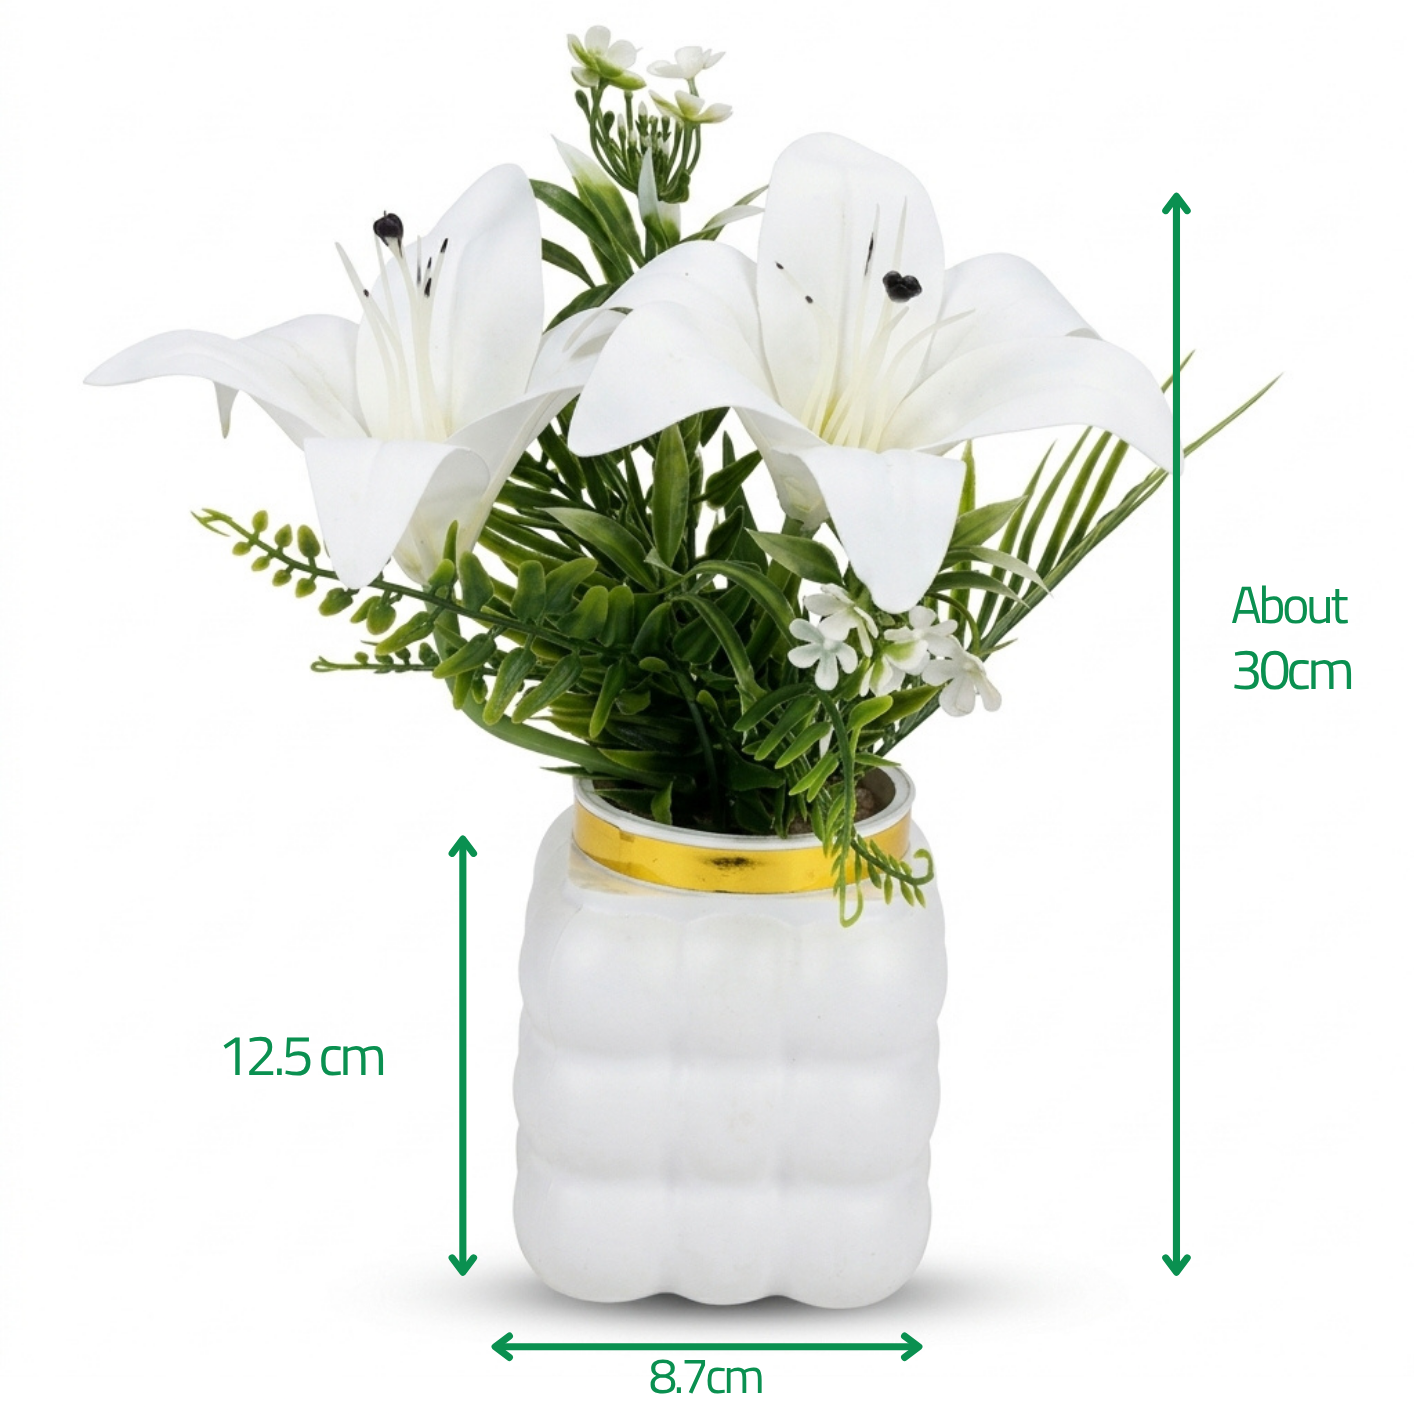
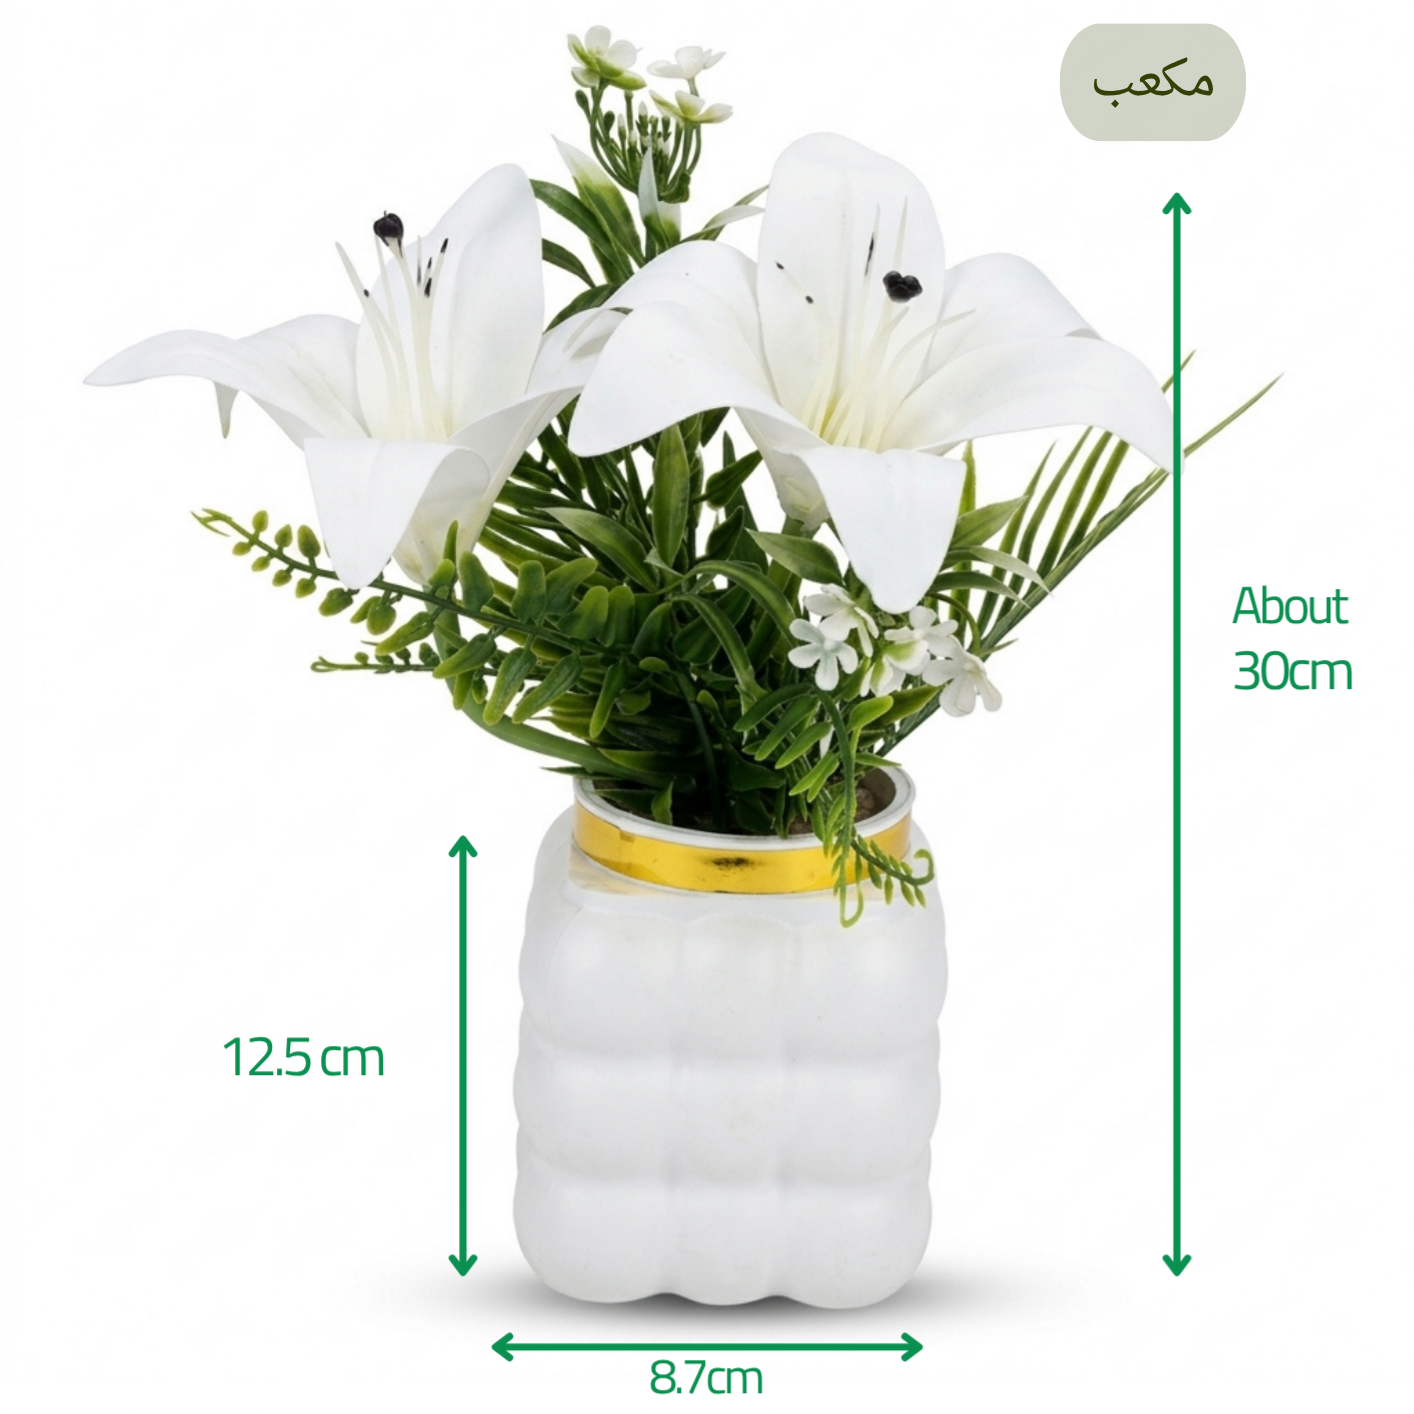
docs(amazon): calibrate live PPC campaign parameters and log daily progress

diff --git a/PROGRESS_TRACKER.md b/PROGRESS_TRACKER.md
@@ -679,6 +679,21 @@ Vercel Preview
 
 ---
 
+### 🗓 اليوم: الاثنين 2026-11-16 (معايرة وتشغيل إعلانات أمازون مصر للفازة البابلز)
+
+- **البلوك الليلي / الفجر (إدارة عمليات وتوسيع أمازون مصر)**:
+  - [x] تشخيص أداء أول 24 ساعة لحملة فازة ورد الليليام البابلز (`B0HNFBPLGG`).
+  - [x] اكتشاف سبب انخفاض الظهور (28 ظهور فقط) بسبب عطاءات قاع المزاد وفجوة الكلمات المفتاحية في الاستهداف التلقائي.
+  - [x] معايرة وضبط أسعار مجموعات الاستهداف التلقائي بنجاح في السيلر سنترال:
+    - المطابقة المقاربة (`Close-match`): 1.40 ج.م
+    - البدائل (`Substitutes`): 1.10 ج.م
+    - المطابقة الفضفاضة (`Loose-match`): 0.85 ج.م
+  - [x] تثبيت الميزانية اليومية الصارمة على 30.00 ج.م مع خيار العطاءات الديناميكية (تخفيض فقط).
+  - [x] اعتماد وتوثيق العنوان المحدث للبحث العضوي وتحسين الـ SEO ليتصدر بـ "ورد صناعي كانه طبيعي" في [AMAZON_LILIUM_MASTER_DOSSIER.md](local-business-store/amazon-operations/AMAZON_LILIUM_MASTER_DOSSIER.md).
+  - [ ] متابعة تقرير كلمات البحث الفعلي بعد انقضاء 48 ساعة (18 نوفمبر 2026).
+
+---
+
 ## 📊 لوحة حالة المشاريع (Projects Health)
 
 | المشروع | الـ Stack | الحالة الحالية | الخطوة التالية |
@@ -689,7 +704,7 @@ Vercel Preview
 | **Inventory Dashboard** | Next.js 16, TanStack Query | مكتوب ومنشور على Vercel | Audit سريع وتجهيزه كدليل قوي للإنترفيو |
 | **Hotel Management** | React, Supabase | مكتوب ومنشور | ربطه بالـ Devfolio كـ Case Study |
 | **Chat Application** | MERN + Socket.IO | مكتوب على GitHub | مراجعة الـ Real-time architecture للإنترفيوز |
-| **محل الديكور وأمازون (Flora_Home)** | تجارة أوفلاين + أمازون مصر (FBA) | **صدور الرقم الضريبي واعتماد الحساب رسمياً + المركز #1 في البحث** 🏆 | تجهيز وتغليف كرتونة الدفعة الأولى (10-15 فازة) بالمحل وإنشاء شحنة FBA |
+| **محل الديكور وأمازون (Flora_Home)** | تجارة أوفلاين + أمازون مصر (FBA) | **إطلاق ومعايرة أول حملة PPC رسمياً بسعر 1.40 ج.م وميزانية 30 ج.م** 🚀 | مراجعة تقرير البحث بعد 48 ساعة وتحويل الكلمات الرابحة لحملة Exact |
 
 
 
